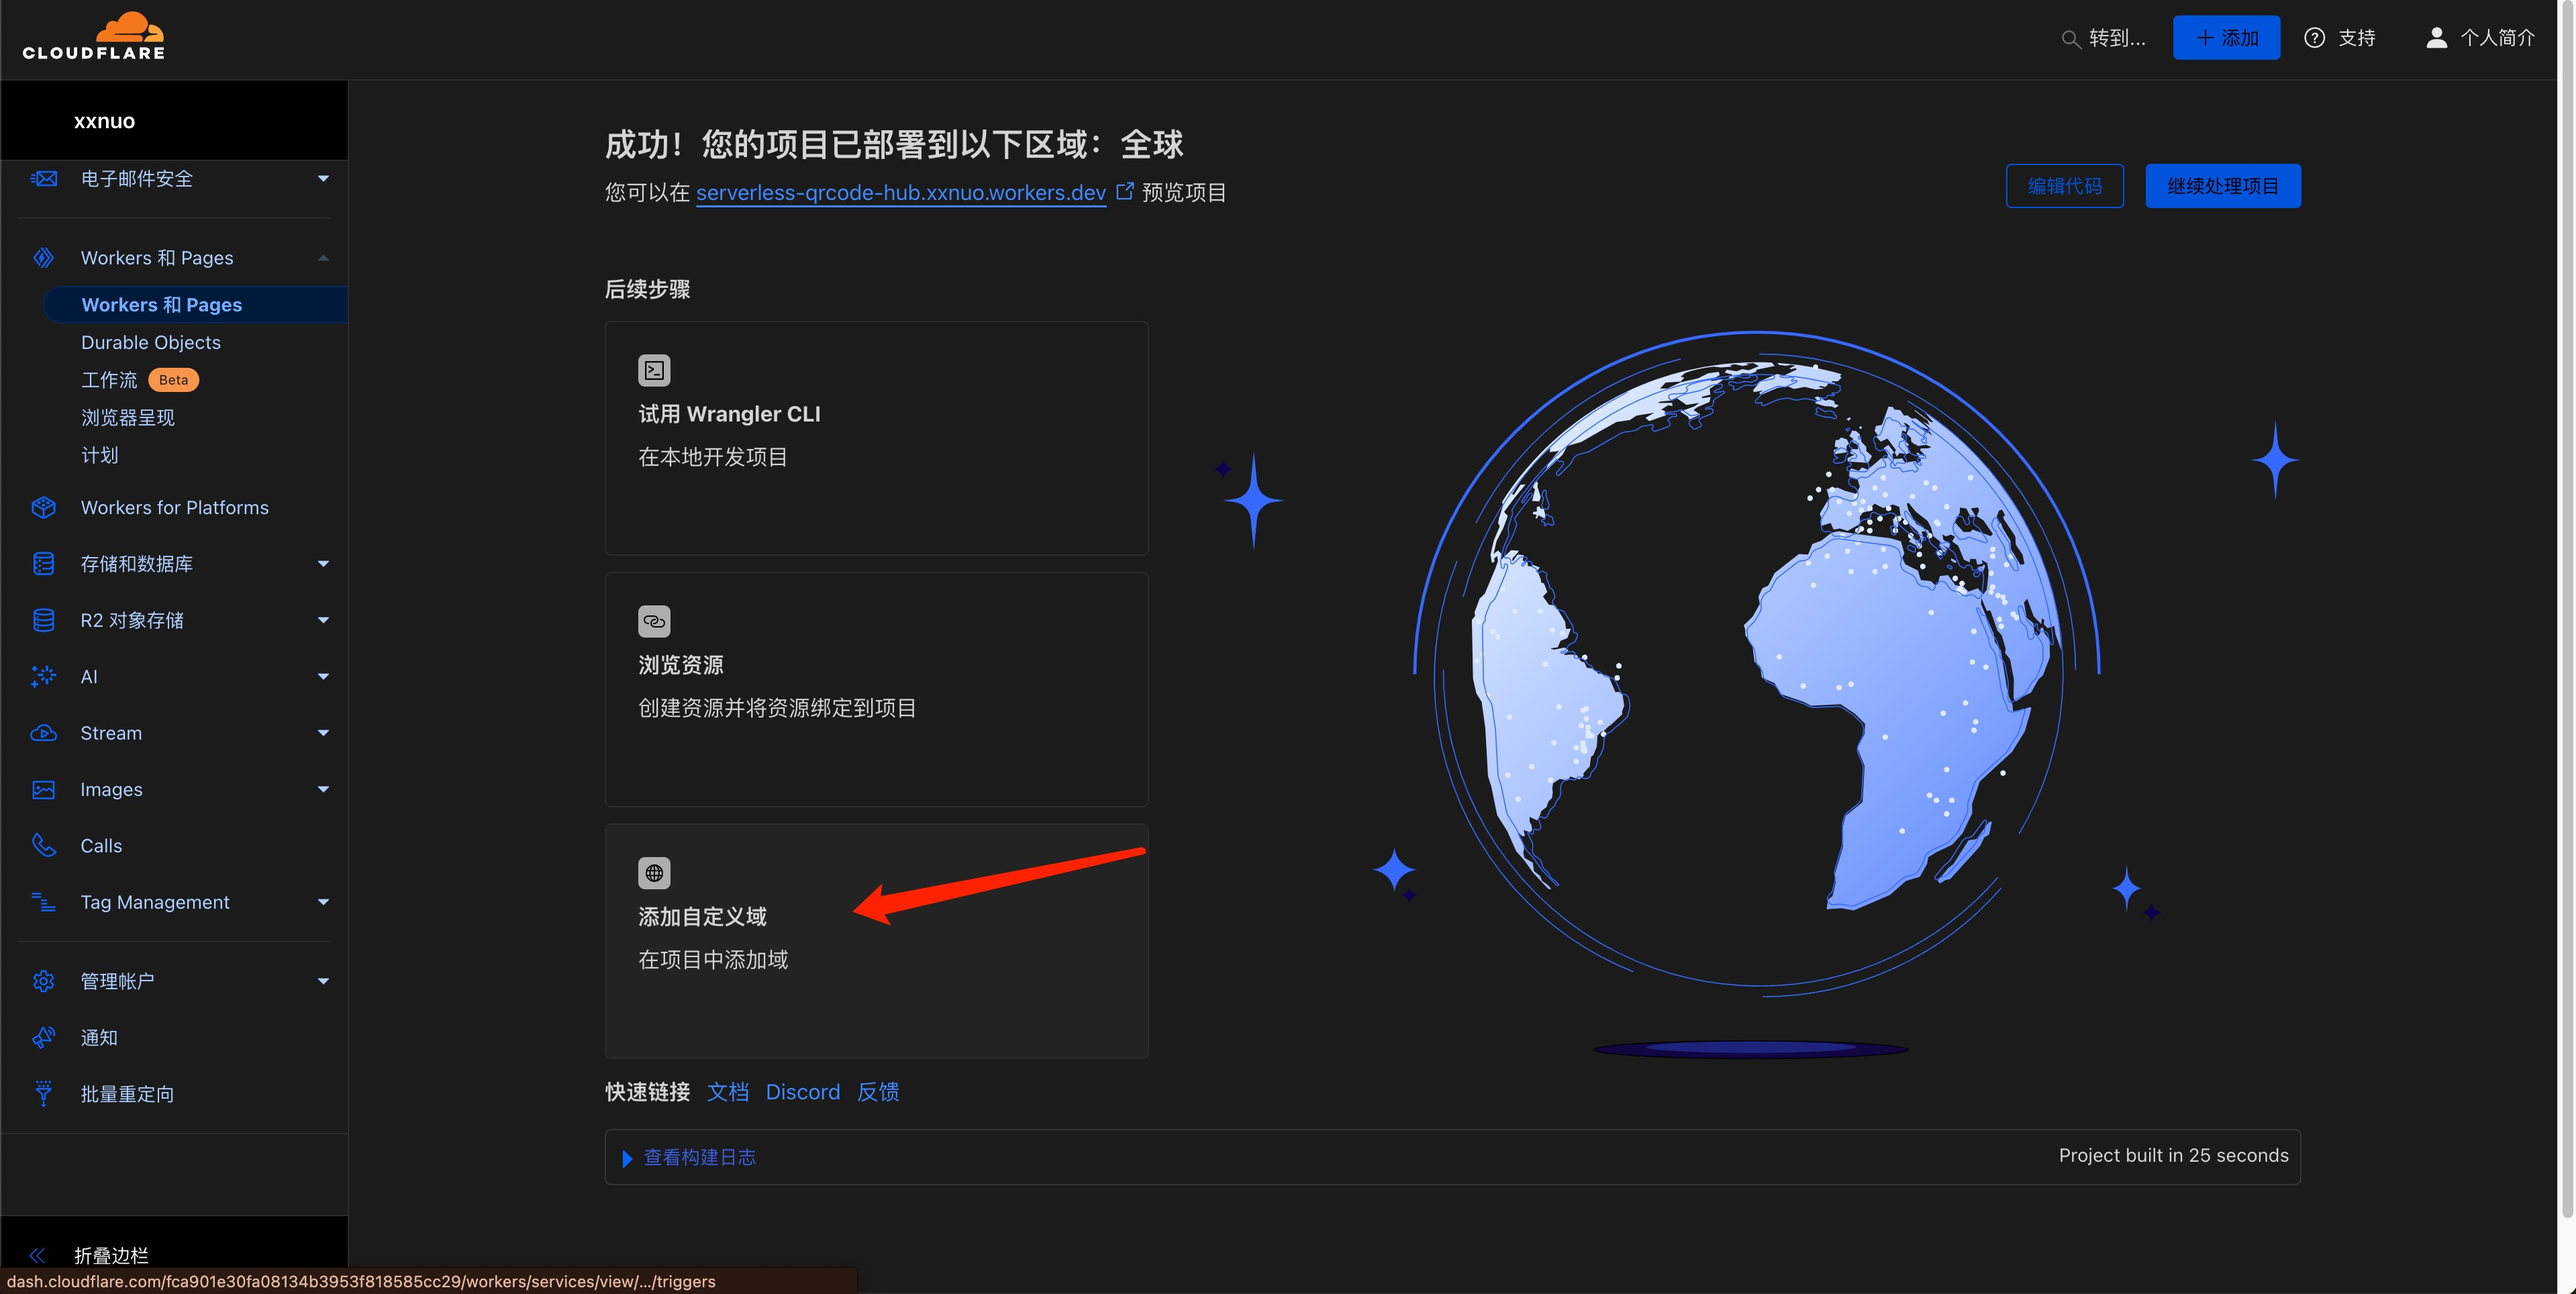
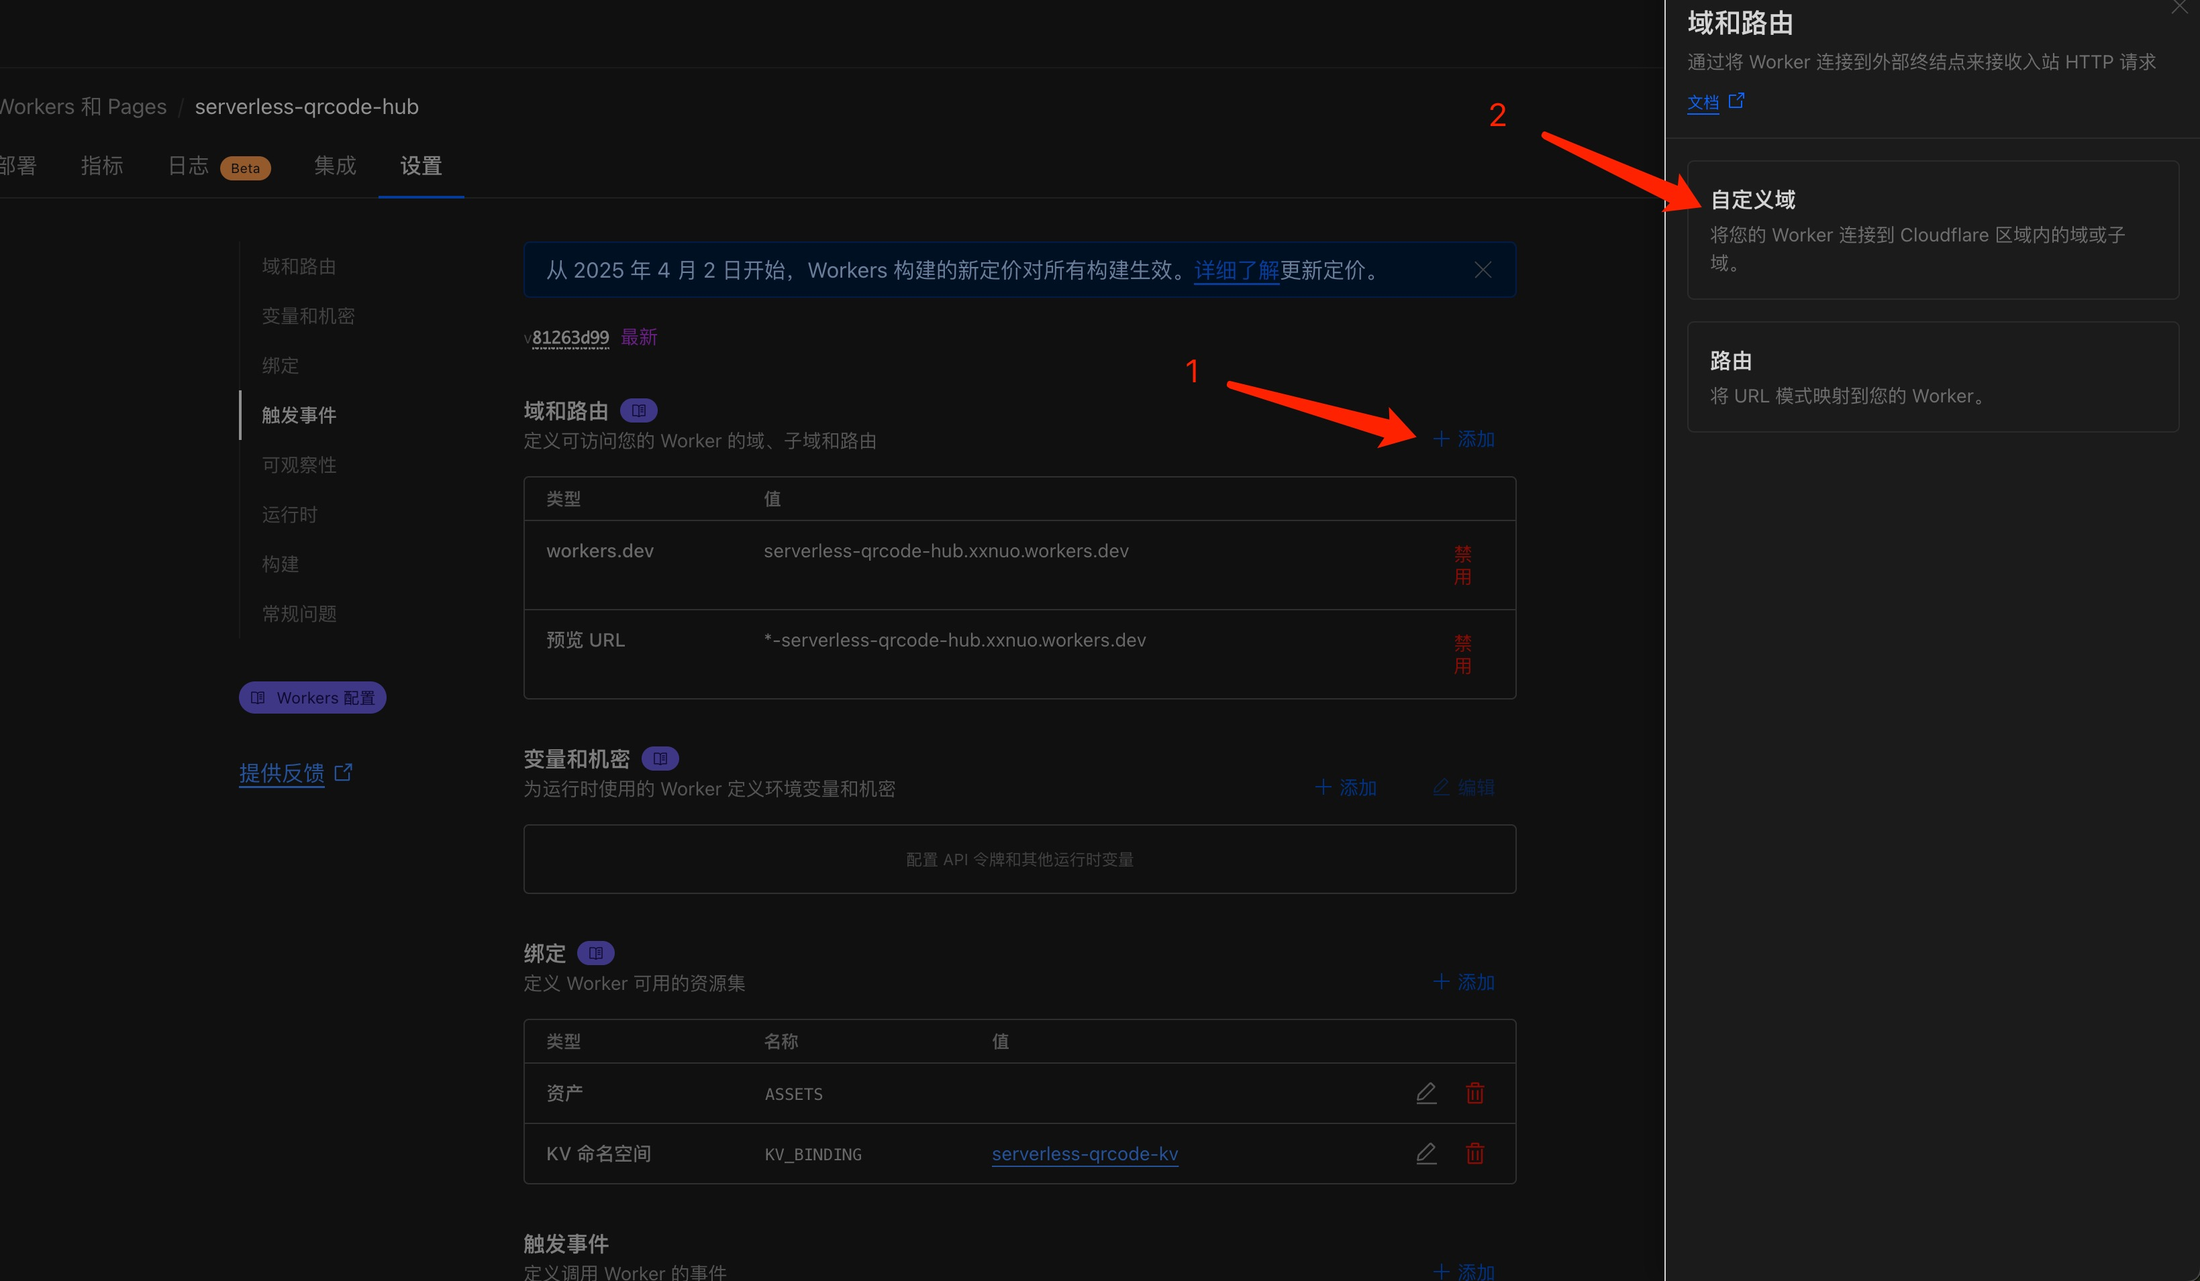
更新说明

diff --git a/README.md b/README.md
@@ -69,27 +69,41 @@
 
    ![](./images/6.jpg)
 
-7. 选择你 Fork 的 Github 仓库
+7. 选择你 Fork 的 Github 仓库，然后直接点击保存并部署
 
    ![](./images/7.jpg)
 
-8. 按图中过程创建后台登录密码 `PASSWORD`，注意格式是英文大小写字母、数字，尽量长点复杂点，建议使用小写的 uuid 字符串
+8. 等待部署成功，自动跳转到了这个页面，此时已经可以用了，默认分配的 `*.workers.dev` 域名在国内访问较慢，建议绑定自己的域名
 
    ![](./images/8.jpg)
 
-9. 等待部署成功，自动跳转到了这个页面，此时已经可以用了，默认分配的 `*.workers.dev` 域名在国内访问较慢，建议绑定自己的域名
+9. 绑定自定义域名
 
    ![](./images/9.jpg)
 
-10. 绑定自定义域名
+10. 设置一个你在 GitHub 托管的域名的子域名 
 
    ![](./images/10.jpg)
 
+<<<<<<< HEAD
+11. 设置访问密码然后保存并部署，注意密码格式为英文和数字，尽量长尽量复杂，建议使用两段随机生成的 uuid 字符串作为密码
+=======
 11. 设置一个你在 Cloudflare 托管的域名的子域名 
+>>>>>>> 0e802d5b7b27a273bc74de533a40792d560ec67d
 
-   ![](./images/11.jpg)
+   ![](./images/11.png)
 
-12. 部署成功，此时已经可以通过默认分配的 `*.workers.dev` 或者你自定义的域名访问了！
+12. 部署成功，此时已经可以面板上通过默认分配的 `*.workers.dev` 或者你自定义的域名访问了！
+
+13. 访问并登录后，创建短链接例子
+
+   ![](./images/12.png)
+   ![](./images/13.png)
+
+14. 创建微信群聊活码例子
+
+   ![](./images/14.png)
+   ![](./images/15.png)
 
 ## TODO
 
